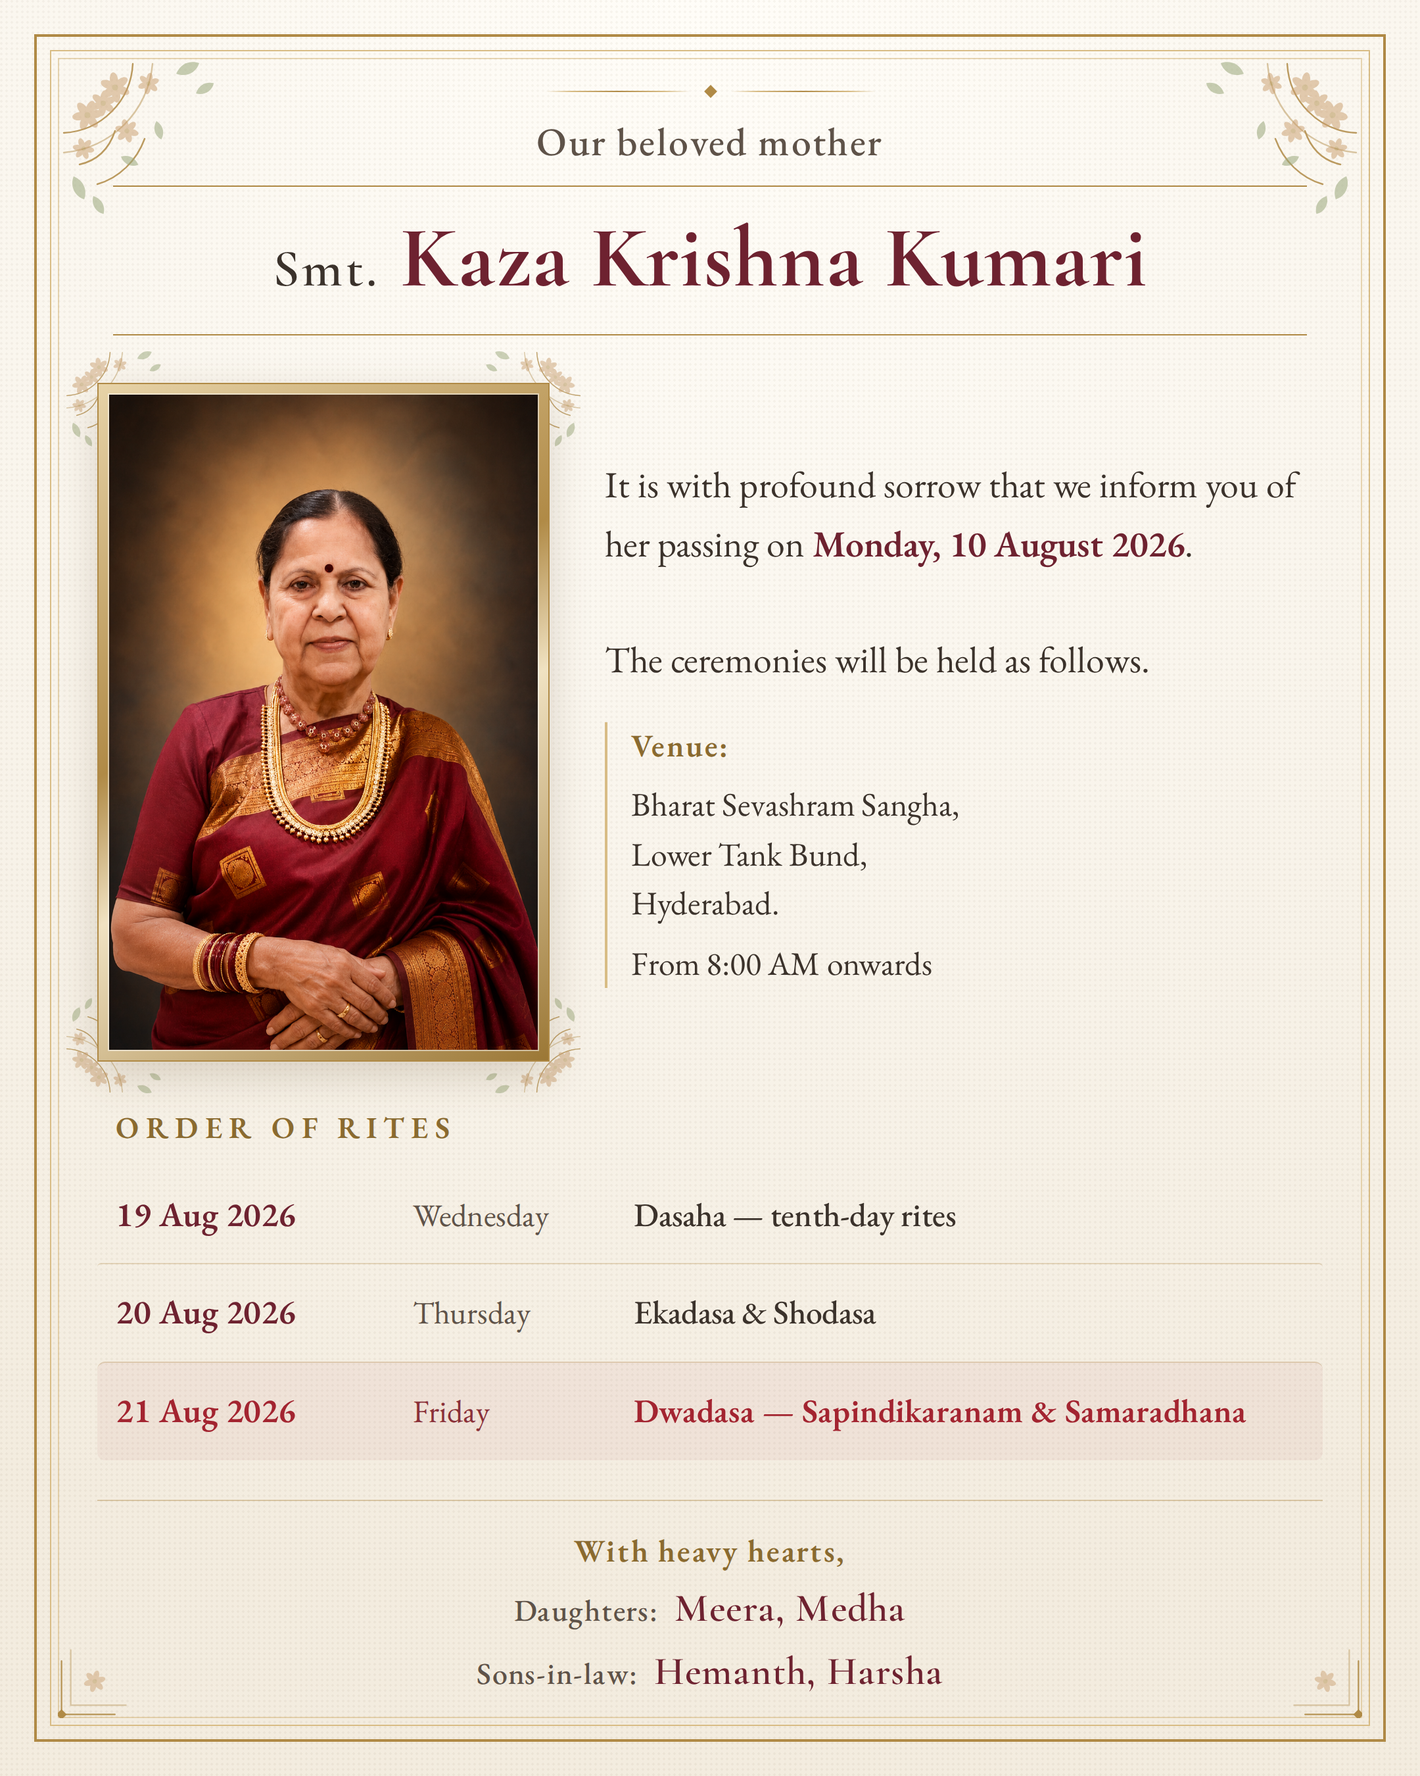
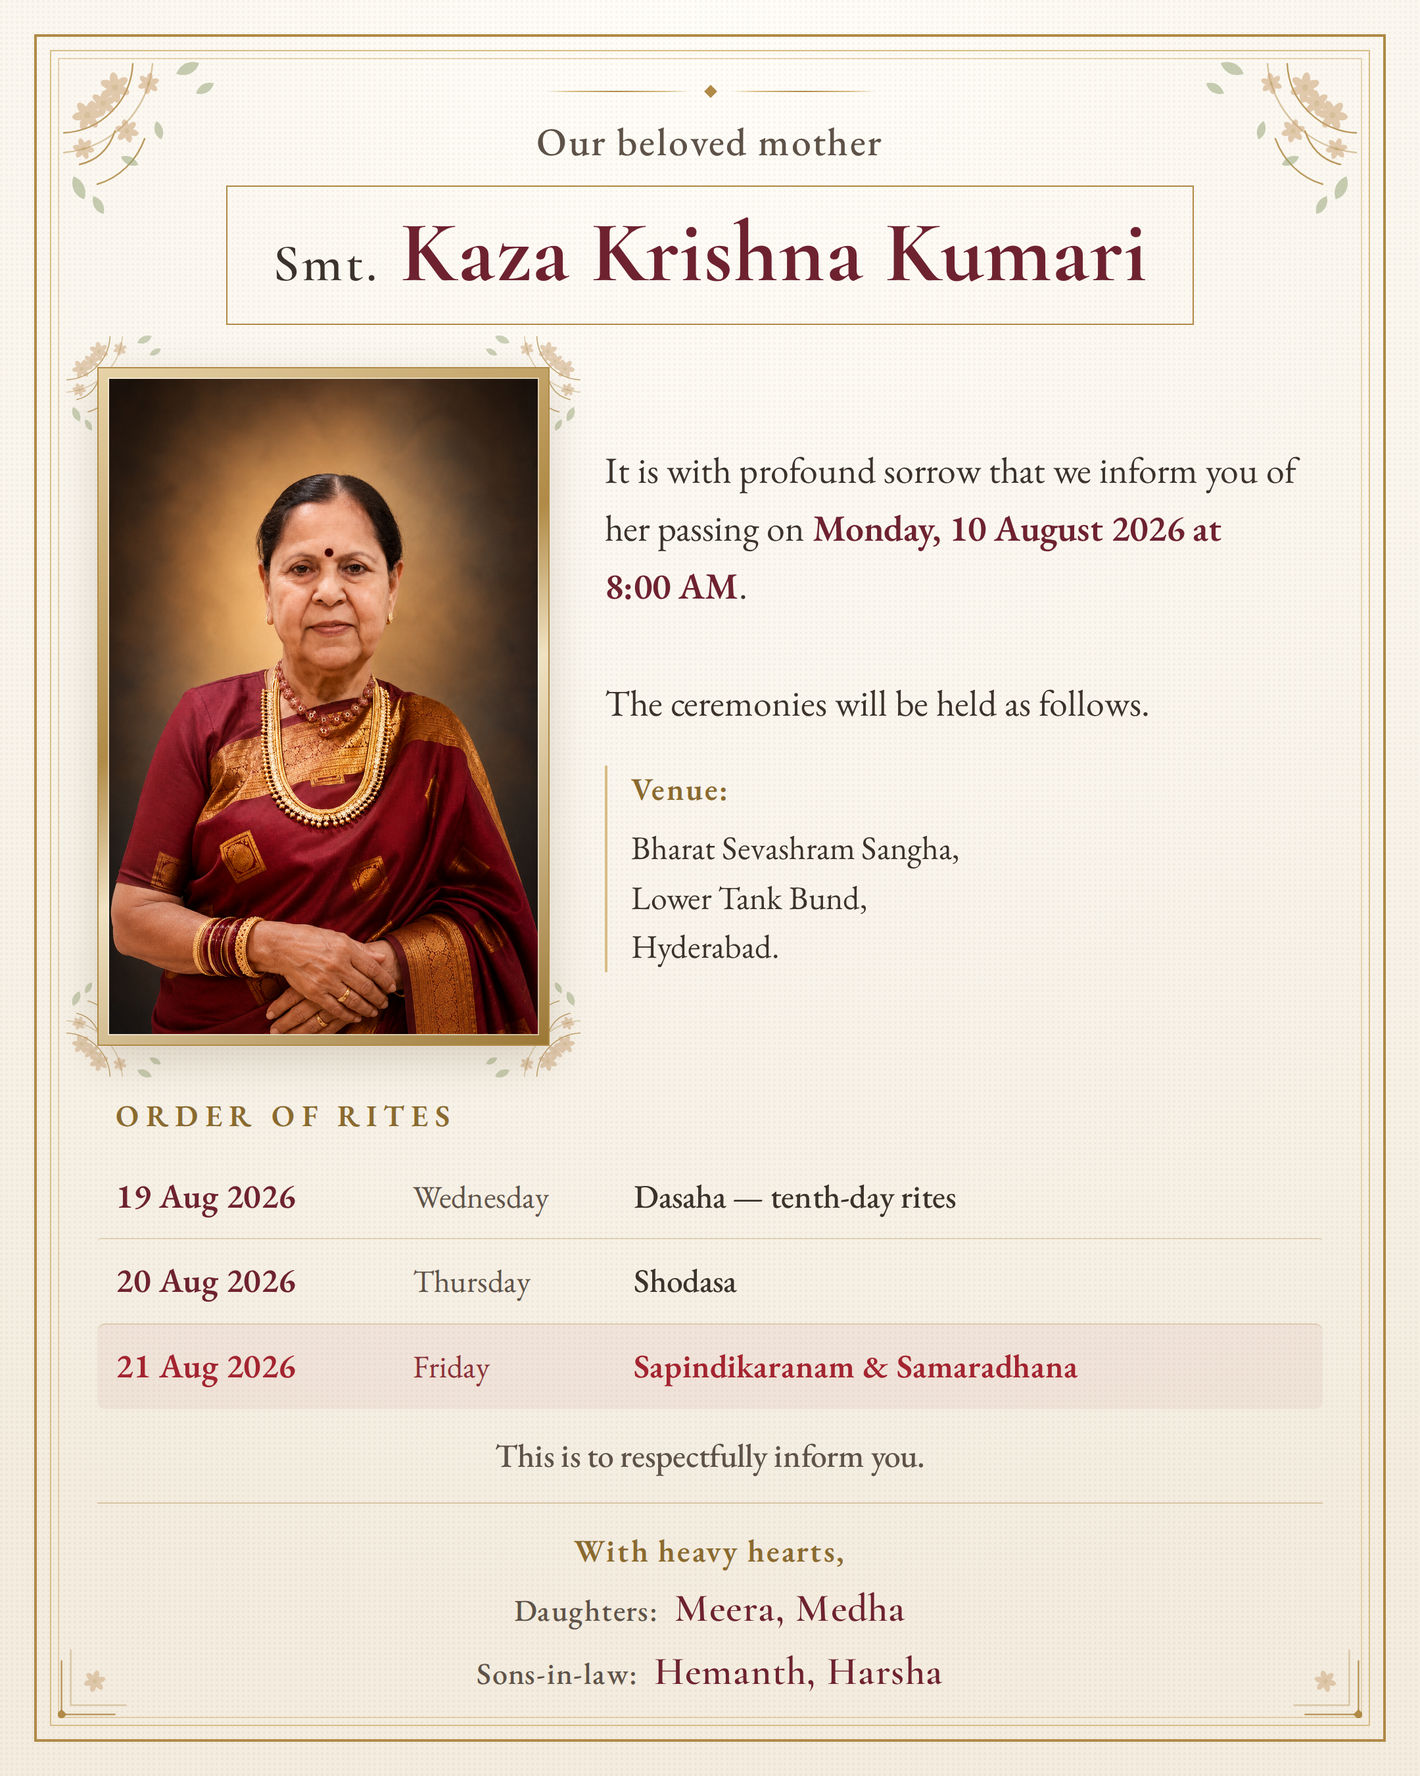
Follow the reference card's conventions
Aligns wording and framing with the reference the family supplied, without
touching the name or the dates:

- Feminine verb form స్వర్గస్థురాలైనారని, matching the reference. The card had
  the honorific-plural form, which reads as neuter for a woman.
- Time of passing moves into the sentence ("...సోమవారం ఉదయం 8 గంటలకు"), which is
  where the reference puts it. It had been sitting under the venue, implying a
  ceremony start time instead.
- Rite labels follow the reference sequence: దశాహం / షోడశం / సపిండీకరణం,
  సమారాధనలు. Drops the ఏకాదశ and ద్వాదశ prefixes the reference does not use.
- Adds the "ది :" prefix on schedule dates and the closing formula
  "జరపబడును కావున తెలియజేయనైనది."
- Name sits in a full ruled box hugging the text, as in the reference, rather
  than between two rules.

Recovered the added height from schedule row padding so the portrait keeps its
uncropped 2:3 fit. Bound "8:00 AM" with a non-breaking space in the English,
which was splitting across lines.

Claude-Session: https://claude.ai/code/session_01JVpFT1KiiQzTaMTwnEeLwV

diff --git a/designs/memorial-invitation-kaza-krishna-kumari/design.js b/designs/memorial-invitation-kaza-krishna-kumari/design.js
@@ -16,8 +16,6 @@ const CONFIG = {
   passedOnEn: 'Monday, 10 August 2026',
   venueTe: ['కార్యస్థలం:', 'భారత్ సేవాశ్రమ్ సంఘ్,', 'లోయర్ ట్యాంక్ బండ్,', 'హైదరాబాద్.'],
   venueEn: ['Venue:', 'Bharat Sevashram Sangha,', 'Lower Tank Bund,', 'Hyderabad.'],
-  timeTe: 'ఉదయం 8 గంటల నుండి',
-  timeEn: 'From 8:00 AM onwards',
   fromGroupsTe: [['కుమార్తెలు', 'మీరా, మేధ'], ['అల్లుళ్లు', 'హేమంత్, హర్ష']],
   fromGroupsEn: [['Daughters', 'Meera, Medha'], ['Sons-in-law', 'Hemanth, Harsha']],
   fromLabelTe: 'ఇట్లు',
@@ -30,14 +28,14 @@ const CONFIG = {
 
 const SCHEDULE_TE = [
   { d: '19-08-2026', wd: 'బుధవారం', r: 'దశాహం (ధర్మోదకాలు, తిలోదకాలు)', hi: false },
-  { d: '20-08-2026', wd: 'గురువారం', r: 'ఏకాదశ, షోడశం', hi: false },
-  { d: '21-08-2026', wd: 'శుక్రవారం', r: 'ద్వాదశ — సపిండీకరణం, సమారాధనలు', hi: true },
+  { d: '20-08-2026', wd: 'గురువారం', r: 'షోడశం', hi: false },
+  { d: '21-08-2026', wd: 'శుక్రవారం', r: 'సపిండీకరణం, సమారాధనలు', hi: true },
 ];
 
 const SCHEDULE_EN = [
   { d: '19 Aug 2026', wd: 'Wednesday', r: 'Dasaha — tenth-day rites', hi: false },
-  { d: '20 Aug 2026', wd: 'Thursday', r: 'Ekadasa & Shodasa', hi: false },
-  { d: '21 Aug 2026', wd: 'Friday', r: 'Dwadasa — Sapindikaranam & Samaradhana', hi: true },
+  { d: '20 Aug 2026', wd: 'Thursday', r: 'Shodasa', hi: false },
+  { d: '21 Aug 2026', wd: 'Friday', r: 'Sapindikaranam & Samaradhana', hi: true },
 ];
 
 /* ------------------------------ shared CSS ------------------------------ */
@@ -163,7 +161,7 @@ function invite(lang) {
 
   const rows = sched.map(s => `
     <div class="row${s.hi ? ' hi' : ''}">
-      <div class="rd">${s.d}</div>
+      <div class="rd">${te ? 'ది : ' : ''}${s.d}</div>
       <div class="rw">${s.wd}</div>
       <div class="rr">${s.r}</div>
     </div>`).join('');
@@ -187,12 +185,12 @@ ${FONTS}${BASE}${PHOTO_CSS}
 .om{font:${te?`500 34px`:`600 30px`}/1 ${FB};color:var(--gold-dk);letter-spacing:${te?'0':'.2em'};margin-bottom:14px}
 .rel{font:${te?`500 32px`:`500 30px`}/1.4 ${FB};color:var(--ink-soft);margin:14px 0 12px;
   letter-spacing:${te?'0':'.04em'}}
-.nameplate{border-top:1.5px solid var(--gold);border-bottom:1.5px solid var(--gold);
-  padding:${te?'16px 0 20px':'14px 0 16px'};margin:0 12px}
+.nameplate{border:1.5px solid var(--gold);width:fit-content;
+  padding:${te?'12px 34px 16px':'10px 34px 12px'};margin:0 auto}
 .nm{font:${te?`700 62px`:`700 66px`}/1.24 ${F};color:var(--maroon);letter-spacing:${te?'0':'.012em'}}
 .nm small{font-size:${te?'40px':'40px'};font-weight:${te?500:600};color:var(--ink);letter-spacing:${te?'0':'.06em'}}
 
-.mid{display:flex;align-items:stretch;gap:42px;margin:36px 0 24px;text-align:left}
+.mid{display:flex;align-items:stretch;gap:42px;margin:32px 0 18px;text-align:left}
 .midcol{display:flex;flex-direction:column;justify-content:center;gap:26px;flex:1}
 .venue{border-left:2px solid var(--gold-lt);padding-left:18px}
 .venue,.venue .time{font:${te?`400 25px`:`400 25px`}/1.5 ${FB};color:var(--ink)}
@@ -204,7 +202,7 @@ ${FONTS}${BASE}${PHOTO_CSS}
   color:var(--gold-dk);text-transform:${te?'none':'uppercase'};margin-bottom:14px;
   text-align:left;padding-left:14px;margin-bottom:18px}
 .row{display:grid;grid-template-columns:${te?'232px 168px 1fr':'214px 156px 1fr'};
-  align-items:baseline;gap:12px;text-align:left;padding:20px 14px;border-radius:3px}
+  align-items:baseline;gap:12px;text-align:left;padding:15px 14px;border-radius:3px}
 .row+.row{border-top:1px solid rgba(176,138,70,.28)}
 .rd{font:${te?`600 27px`:`600 26px`}/1.3 ${FB};color:var(--maroon);letter-spacing:.01em}
 .rw{font:${te?`400 25px`:`400 24px`}/1.3 ${FB};color:var(--ink-soft)}
@@ -213,7 +211,9 @@ ${FONTS}${BASE}${PHOTO_CSS}
 .row.hi .rd,.row.hi .rr{color:var(--accent);font-weight:${te?700:600}}
 .row.hi .rw{color:#8A3038}
 
-.foot{margin-top:30px;padding-top:22px;font-family:${FB};
+.closing{font:${te?`500 26px`:`500 25px`}/1.4 ${FB};color:var(--ink-soft);
+  text-align:center;margin-top:18px}
+.foot{margin-top:18px;padding-top:20px;font-family:${FB};
   border-top:1px solid rgba(176,138,70,.4);text-align:center}
 .lbl{font-family:${FB};font-weight:600;color:var(--gold-dk);display:block;
   margin-bottom:8px;letter-spacing:${te?'0':'.06em'};font-size:${te?'25px':'24px'}}
@@ -242,16 +242,18 @@ ${FONTS}${BASE}${PHOTO_CSS}
       ${photoBlock(c, 344, 516)}
       <div class="midcol">
         <div class="passed">${te
-          ? `<b>${c.passedOnTe}</b> నాడు స్వర్గస్థులైనారని తెలియజేయుటకు ఎంతో చింతిస్తున్నాము.<br><br>వారి ఉత్తరక్రియలు క్రింది విధముగా జరుపబడును.`
-          : `It is with profound sorrow that we inform you of her passing on <b>${c.passedOnEn}</b>.<br><br>The ceremonies will be held as follows.`}</div>
-        <div class="venue"><span class="lbl">${venue[0]}</span>${venue.slice(1).join('<br>')}
-          <div class="time">${te ? c.timeTe : c.timeEn}</div></div>
+          ? `<b>${c.passedOnTe}</b> ఉదయం 8 గంటలకు స్వర్గస్థురాలైనారని తెలియజేయుటకు ఎంతో చింతిస్తున్నాము.<br><br>వారి ఉత్తరక్రియలు క్రింది విధముగా జరుపబడును.`
+          : `It is with profound sorrow that we inform you of her passing on <b>${c.passedOnEn} at 8:00&nbsp;AM</b>.<br><br>The ceremonies will be held as follows.`}</div>
+        <div class="venue"><span class="lbl">${venue[0]}</span>${venue.slice(1).join('<br>')}</div>
       </div>
     </div>
     <div class="schedule">
       <div class="sched-h">${te ? 'ఉత్తరక్రియల వివరములు' : 'Order of Rites'}</div>
       ${rows}
     </div>
+    <div class="closing">${te
+      ? 'జరపబడును కావున తెలియజేయనైనది.'
+      : 'This is to respectfully inform you.'}</div>
     <div class="foot">
       <span class="lbl">${te ? c.fromLabelTe : c.fromLabelEn}</span>
       ${groups.map(([role, names]) => `<div class="grp">
@@ -306,7 +308,7 @@ ${FONTS}${BASE}${PHOTO_CSS}
     <div class="om">${te ? 'ఓం శాంతిః' : 'OM SHANTI'}</div>
     ${photoBlock(c, 520, 624)}
     <div class="nm"><small>${te ? c.honorificTe : c.honorificEn}</small> ${te ? c.nameTe : c.nameEn} ${te ? `<small>${c.nameSuffixTe}</small>` : ''}</div>
-    <div class="dates">${te ? `స్వర్గస్థులైన తేదీ — ${c.passedOnPlainTe}` : `Passed away on ${c.passedOnEn}`}</div>
+    <div class="dates">${te ? `స్వర్గస్థురాలైన తేదీ — ${c.passedOnPlainTe}` : `Passed away on ${c.passedOnEn}`}</div>
     <div class="orn"><span class="rule"></span><span class="diamond"></span><span class="rule"></span></div>
     <div class="blessing">${te ? 'వారి ఆత్మకు శాంతి కలుగుగాక' : 'May her soul rest in eternal peace'}</div>
   </div>

diff --git a/designs/memorial-invitation-kaza-krishna-kumari/invitation-telugu.html b/designs/memorial-invitation-kaza-krishna-kumari/invitation-telugu.html
@@ -62,12 +62,12 @@ body{background:#fff}
 .om{font:500 34px/1 'NST',serif;color:var(--gold-dk);letter-spacing:0;margin-bottom:14px}
 .rel{font:500 32px/1.4 'NST',serif;color:var(--ink-soft);margin:14px 0 12px;
   letter-spacing:0}
-.nameplate{border-top:1.5px solid var(--gold);border-bottom:1.5px solid var(--gold);
-  padding:16px 0 20px;margin:0 12px}
+.nameplate{border:1.5px solid var(--gold);width:fit-content;
+  padding:12px 34px 16px;margin:0 auto}
 .nm{font:700 62px/1.24 'NST',serif;color:var(--maroon);letter-spacing:0}
 .nm small{font-size:40px;font-weight:500;color:var(--ink);letter-spacing:0}
 
-.mid{display:flex;align-items:stretch;gap:42px;margin:36px 0 24px;text-align:left}
+.mid{display:flex;align-items:stretch;gap:42px;margin:32px 0 18px;text-align:left}
 .midcol{display:flex;flex-direction:column;justify-content:center;gap:26px;flex:1}
 .venue{border-left:2px solid var(--gold-lt);padding-left:18px}
 .venue,.venue .time{font:400 25px/1.5 'NST',serif;color:var(--ink)}
@@ -79,7 +79,7 @@ body{background:#fff}
   color:var(--gold-dk);text-transform:none;margin-bottom:14px;
   text-align:left;padding-left:14px;margin-bottom:18px}
 .row{display:grid;grid-template-columns:232px 168px 1fr;
-  align-items:baseline;gap:12px;text-align:left;padding:20px 14px;border-radius:3px}
+  align-items:baseline;gap:12px;text-align:left;padding:15px 14px;border-radius:3px}
 .row+.row{border-top:1px solid rgba(176,138,70,.28)}
 .rd{font:600 27px/1.3 'NST',serif;color:var(--maroon);letter-spacing:.01em}
 .rw{font:400 25px/1.3 'NST',serif;color:var(--ink-soft)}
@@ -88,7 +88,9 @@ body{background:#fff}
 .row.hi .rd,.row.hi .rr{color:var(--accent);font-weight:700}
 .row.hi .rw{color:#8A3038}
 
-.foot{margin-top:30px;padding-top:22px;font-family:'NST',serif;
+.closing{font:500 26px/1.4 'NST',serif;color:var(--ink-soft);
+  text-align:center;margin-top:18px}
+.foot{margin-top:18px;padding-top:20px;font-family:'NST',serif;
   border-top:1px solid rgba(176,138,70,.4);text-align:center}
 .lbl{font-family:'NST',serif;font-weight:600;color:var(--gold-dk);display:block;
   margin-bottom:8px;letter-spacing:0;font-size:25px}
@@ -363,30 +365,30 @@ body{background:#fff}
     <div class="photo-in"><img src="Photo enh chtg.png" alt=""></div>
   </div>
       <div class="midcol">
-        <div class="passed"><b>ది 10-08-2026 సోమవారం</b> నాడు స్వర్గస్థులైనారని తెలియజేయుటకు ఎంతో చింతిస్తున్నాము.<br><br>వారి ఉత్తరక్రియలు క్రింది విధముగా జరుపబడును.</div>
-        <div class="venue"><span class="lbl">కార్యస్థలం:</span>భారత్ సేవాశ్రమ్ సంఘ్,<br>లోయర్ ట్యాంక్ బండ్,<br>హైదరాబాద్.
-          <div class="time">ఉదయం 8 గంటల నుండి</div></div>
+        <div class="passed"><b>ది 10-08-2026 సోమవారం</b> ఉదయం 8 గంటలకు స్వర్గస్థురాలైనారని తెలియజేయుటకు ఎంతో చింతిస్తున్నాము.<br><br>వారి ఉత్తరక్రియలు క్రింది విధముగా జరుపబడును.</div>
+        <div class="venue"><span class="lbl">కార్యస్థలం:</span>భారత్ సేవాశ్రమ్ సంఘ్,<br>లోయర్ ట్యాంక్ బండ్,<br>హైదరాబాద్.</div>
       </div>
     </div>
     <div class="schedule">
       <div class="sched-h">ఉత్తరక్రియల వివరములు</div>
       
     <div class="row">
-      <div class="rd">19-08-2026</div>
+      <div class="rd">ది : 19-08-2026</div>
       <div class="rw">బుధవారం</div>
       <div class="rr">దశాహం (ధర్మోదకాలు, తిలోదకాలు)</div>
     </div>
     <div class="row">
-      <div class="rd">20-08-2026</div>
+      <div class="rd">ది : 20-08-2026</div>
       <div class="rw">గురువారం</div>
-      <div class="rr">ఏకాదశ, షోడశం</div>
+      <div class="rr">షోడశం</div>
     </div>
     <div class="row hi">
-      <div class="rd">21-08-2026</div>
+      <div class="rd">ది : 21-08-2026</div>
       <div class="rw">శుక్రవారం</div>
-      <div class="rr">ద్వాదశ — సపిండీకరణం, సమారాధనలు</div>
+      <div class="rr">సపిండీకరణం, సమారాధనలు</div>
     </div>
     </div>
+    <div class="closing">జరపబడును కావున తెలియజేయనైనది.</div>
     <div class="foot">
       <span class="lbl">ఇట్లు</span>
       <div class="grp">

diff --git a/designs/memorial-invitation-kaza-krishna-kumari/invitation-english.html b/designs/memorial-invitation-kaza-krishna-kumari/invitation-english.html
@@ -62,12 +62,12 @@ body{background:#fff}
 .om{font:600 30px/1 'EBG',serif;color:var(--gold-dk);letter-spacing:.2em;margin-bottom:14px}
 .rel{font:500 30px/1.4 'EBG',serif;color:var(--ink-soft);margin:14px 0 12px;
   letter-spacing:.04em}
-.nameplate{border-top:1.5px solid var(--gold);border-bottom:1.5px solid var(--gold);
-  padding:14px 0 16px;margin:0 12px}
+.nameplate{border:1.5px solid var(--gold);width:fit-content;
+  padding:10px 34px 12px;margin:0 auto}
 .nm{font:700 66px/1.24 'Cormorant','EBG',serif;color:var(--maroon);letter-spacing:.012em}
 .nm small{font-size:40px;font-weight:600;color:var(--ink);letter-spacing:.06em}
 
-.mid{display:flex;align-items:stretch;gap:42px;margin:36px 0 24px;text-align:left}
+.mid{display:flex;align-items:stretch;gap:42px;margin:32px 0 18px;text-align:left}
 .midcol{display:flex;flex-direction:column;justify-content:center;gap:26px;flex:1}
 .venue{border-left:2px solid var(--gold-lt);padding-left:18px}
 .venue,.venue .time{font:400 25px/1.5 'EBG',serif;color:var(--ink)}
@@ -79,7 +79,7 @@ body{background:#fff}
   color:var(--gold-dk);text-transform:uppercase;margin-bottom:14px;
   text-align:left;padding-left:14px;margin-bottom:18px}
 .row{display:grid;grid-template-columns:214px 156px 1fr;
-  align-items:baseline;gap:12px;text-align:left;padding:20px 14px;border-radius:3px}
+  align-items:baseline;gap:12px;text-align:left;padding:15px 14px;border-radius:3px}
 .row+.row{border-top:1px solid rgba(176,138,70,.28)}
 .rd{font:600 26px/1.3 'EBG',serif;color:var(--maroon);letter-spacing:.01em}
 .rw{font:400 24px/1.3 'EBG',serif;color:var(--ink-soft)}
@@ -88,7 +88,9 @@ body{background:#fff}
 .row.hi .rd,.row.hi .rr{color:var(--accent);font-weight:600}
 .row.hi .rw{color:#8A3038}
 
-.foot{margin-top:30px;padding-top:22px;font-family:'EBG',serif;
+.closing{font:500 25px/1.4 'EBG',serif;color:var(--ink-soft);
+  text-align:center;margin-top:18px}
+.foot{margin-top:18px;padding-top:20px;font-family:'EBG',serif;
   border-top:1px solid rgba(176,138,70,.4);text-align:center}
 .lbl{font-family:'EBG',serif;font-weight:600;color:var(--gold-dk);display:block;
   margin-bottom:8px;letter-spacing:.06em;font-size:24px}
@@ -363,9 +365,8 @@ body{background:#fff}
     <div class="photo-in"><img src="Photo enh chtg.png" alt=""></div>
   </div>
       <div class="midcol">
-        <div class="passed">It is with profound sorrow that we inform you of her passing on <b>Monday, 10 August 2026</b>.<br><br>The ceremonies will be held as follows.</div>
-        <div class="venue"><span class="lbl">Venue:</span>Bharat Sevashram Sangha,<br>Lower Tank Bund,<br>Hyderabad.
-          <div class="time">From 8:00 AM onwards</div></div>
+        <div class="passed">It is with profound sorrow that we inform you of her passing on <b>Monday, 10 August 2026 at 8:00&nbsp;AM</b>.<br><br>The ceremonies will be held as follows.</div>
+        <div class="venue"><span class="lbl">Venue:</span>Bharat Sevashram Sangha,<br>Lower Tank Bund,<br>Hyderabad.</div>
       </div>
     </div>
     <div class="schedule">
@@ -379,14 +380,15 @@ body{background:#fff}
     <div class="row">
       <div class="rd">20 Aug 2026</div>
       <div class="rw">Thursday</div>
-      <div class="rr">Ekadasa & Shodasa</div>
+      <div class="rr">Shodasa</div>
     </div>
     <div class="row hi">
       <div class="rd">21 Aug 2026</div>
       <div class="rw">Friday</div>
-      <div class="rr">Dwadasa — Sapindikaranam & Samaradhana</div>
+      <div class="rr">Sapindikaranam & Samaradhana</div>
     </div>
     </div>
+    <div class="closing">This is to respectfully inform you.</div>
     <div class="foot">
       <span class="lbl">With heavy hearts,</span>
       <div class="grp">

diff --git a/designs/memorial-invitation-kaza-krishna-kumari/photo-frame-telugu.html b/designs/memorial-invitation-kaza-krishna-kumari/photo-frame-telugu.html
@@ -382,7 +382,7 @@ body{background:#fff}
     <div class="photo-in"><img src="Photo enh chtg.png" alt=""></div>
   </div>
     <div class="nm"><small>శ్రీమతి</small> కాజా కృష్ణ కుమారి <small>గారు</small></div>
-    <div class="dates">స్వర్గస్థులైన తేదీ — 10-08-2026 సోమవారం</div>
+    <div class="dates">స్వర్గస్థురాలైన తేదీ — 10-08-2026 సోమవారం</div>
     <div class="orn"><span class="rule"></span><span class="diamond"></span><span class="rule"></span></div>
     <div class="blessing">వారి ఆత్మకు శాంతి కలుగుగాక</div>
   </div>
